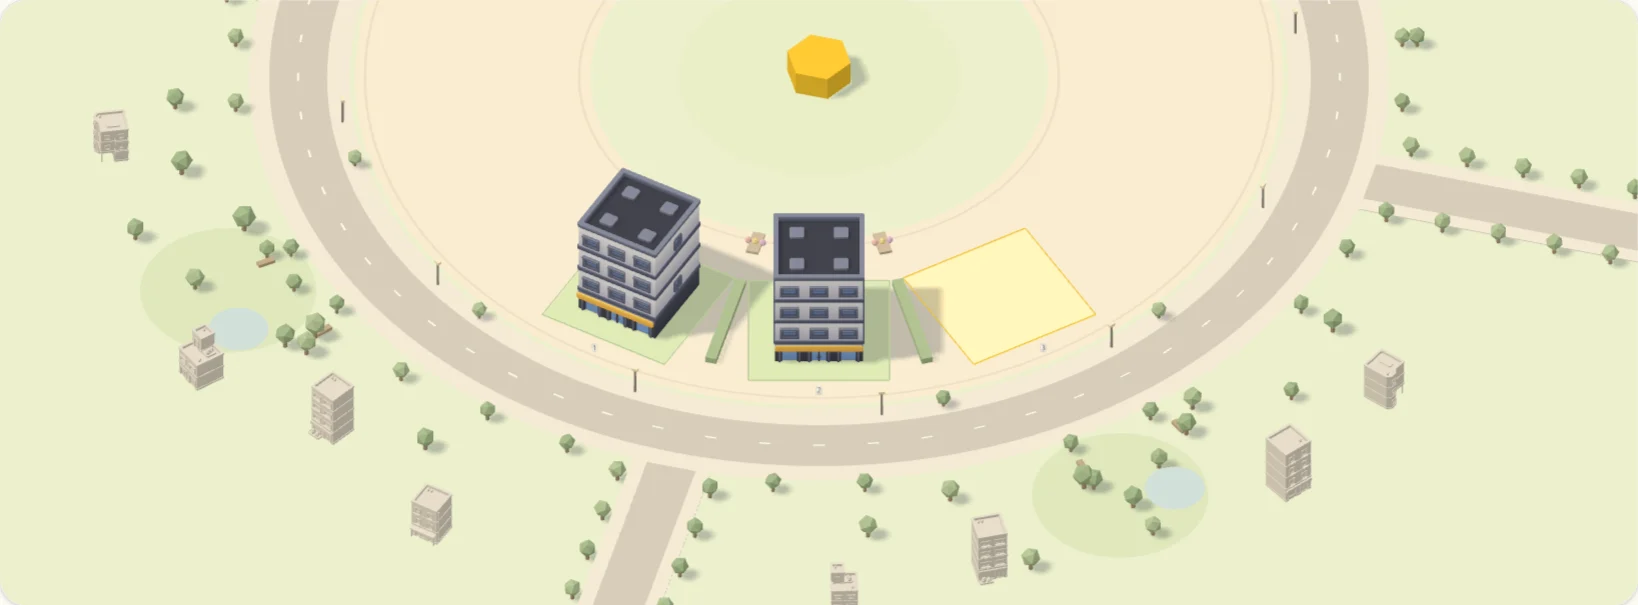
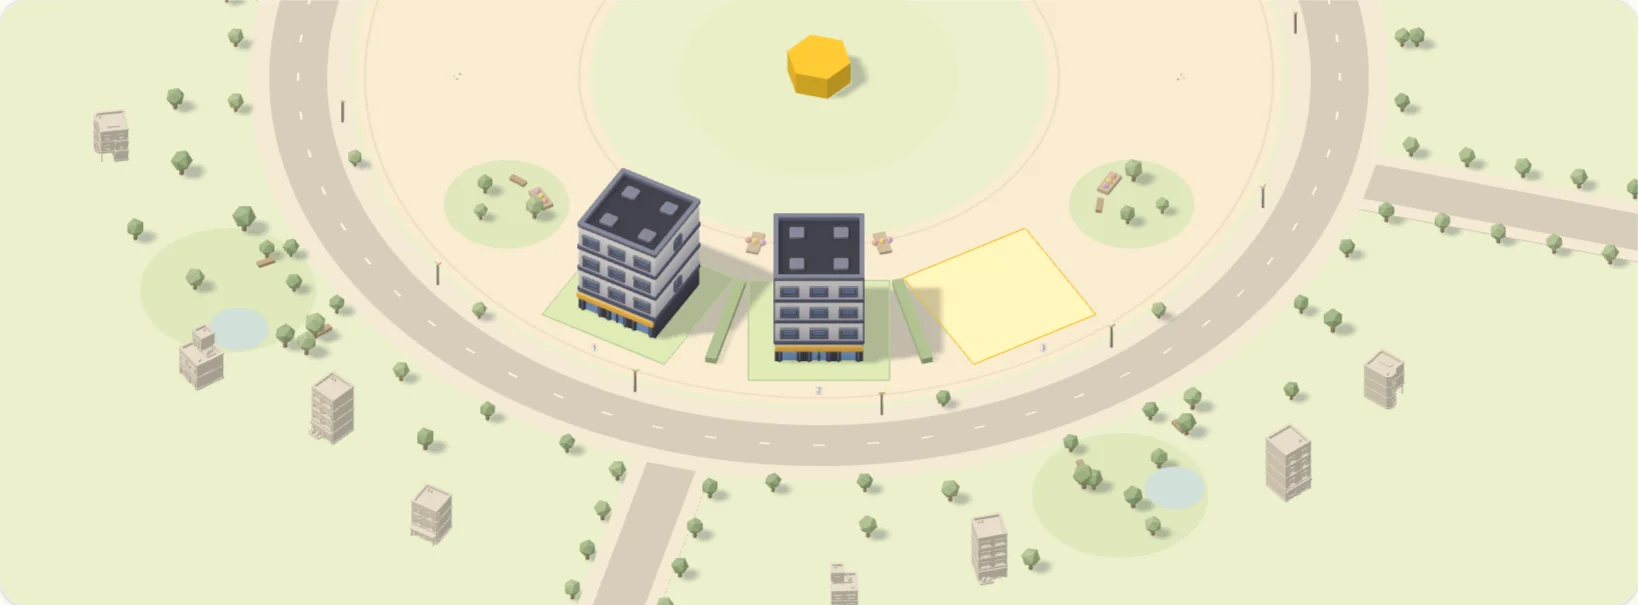
design: 원형 도시를 휠로 돌리고, 쓰지 않은 칸은 부지 대신 잔디·나무로 채움 (S15P31A108-256)
- 사용자 요청: 도시 위 마우스 휠·트랙패드 스크롤은 확대·축소 대신 원을 돌림(아래로 굴리면 다음 칸이 가운데로).
  멈추면 끌기처럼 가장 가까운 칸에 맞추고, 도시 위에서만 페이지 스크롤을 막음. 확대·축소는 없앰
- 부지 모양은 프로젝트 칸과 '+ 새 프로젝트' 빈 부지 하나에만 두고, 쓰지 않은 칸은 둥근 잔디·나무 셋·벤치·꽃밭으로 채움
- 화면 안내를 '끌거나 휠을 굴려 원 돌리기 · 부지를 눌러 선택'으로 고침
- 로그인 화면 그림(city-preview.webp)을 바뀐 모습으로 다시 찍음
- D26·README 문구를 맞춤

Changed region(s): [[0.6538, 0.2678, 0.7473, 0.4165], [0.2491, 0.2678, 0.3425, 0.4165]]

diff --git a/frontend/src/three/city/CityRenderer3D.ts b/frontend/src/three/city/CityRenderer3D.ts
@@ -13,7 +13,6 @@ export interface RingProject {
 export interface RingView {
   /** 몇 칸 돌렸는지(소수 가능) */
   rot: number
-  zoom: number
   hover: number | null
   /** 프로젝트 만들기 창 뒤에 깔 때: 더 가깝게 본다(보드 SCR-04-v2-create-project) */
   backdrop?: boolean
@@ -49,6 +48,8 @@ interface Slot {
   group: THREE.Group
   lawn: THREE.Group
   building: THREE.Group
+  /** 쓰지 않은 칸의 꾸밈(잔디·나무·벤치·꽃밭). 부지 모양은 프로젝트 칸과 빈 부지 하나에만 둔다. */
+  filler: THREE.Group
   number: THREE.Sprite
   key: string
   height: number
@@ -155,7 +156,7 @@ export class CityRenderer3D {
   /** 화면 1px이 몇 단위인지의 역수(단위당 px). 끌기 거리를 칸 수로 바꿀 때 쓴다. */
   pixelsPerUnit(view: RingView) {
     const frame = view.backdrop ? FRAME.backdrop : FRAME.city
-    return (this.width * view.zoom) / frame.view
+    return this.width / frame.view
   }
 
   /** 프로젝트 칸과 빈 부지 칸을 맞춘다. 같은 내용이면 아무것도 하지 않는다. */
@@ -191,9 +192,11 @@ export class CityRenderer3D {
     const ppu = this.pixelsPerUnit(view)
     for (const [s, slot] of this.slots.entries()) {
       const { size } = ringSlot(s, view.rot)
-      slot.group.visible = this.used.has(s) && size > 0.001
+      const used = this.used.has(s)
+      slot.group.visible = size > 0.001
       slot.group.scale.setScalar(Math.max(size, 0.001))
-      slot.number.visible = size > 0.85
+      slot.filler.visible = !used
+      slot.number.visible = used && size > 0.85
       // 보드 그림(2배 해상도)에서 64×48px 글자판을 0.42배로 찍은 크기: 화면에서 13×10px
       slot.number.scale.set((64 * 0.21) / ppu, (48 * 0.21) / ppu, 1)
     }
@@ -205,7 +208,7 @@ export class CityRenderer3D {
     else this.highlight.removeFromParent()
 
     const frame = view.backdrop ? FRAME.backdrop : FRAME.city
-    const w = frame.view / view.zoom
+    const w = frame.view
     const halfH = (w * this.height) / this.width / 2
     const d = (halfH - (frame.top * w) / frame.view) / Math.sin(EL)
     const target = d / Math.SQRT2
@@ -331,12 +334,70 @@ export class CityRenderer3D {
     this.at(group, R, s).rotation.y += Math.PI
     const lawn = new THREE.Group()
     const building = new THREE.Group()
+    const filler = this.filler(s)
     const number = this.numberSprite(s + 1)
     number.position.set(0, 6, -70)
-    group.add(lawn, building, number)
-    slot = { group, lawn, building, number, key: '', height: 0 }
+    group.add(lawn, building, filler, number)
+    slot = { group, lawn, building, filler, number, key: '', height: 0 }
     this.slots[s] = slot
     return slot
+  }
+
+  // 쓰지 않은 칸: 부지 모양 없이 둥근 잔디에 나무 셋, 벤치, 꽃밭(v469 꾸밈의 결). 칸마다 조금씩 다르게 놓는다.
+  private filler(s: number) {
+    const group = new THREE.Group()
+    const patch = this.flat(this.sharedGeometry('filler'), '#d5e1bd', 1.9)
+    group.add(patch)
+    const turn = s % 2 ? 1 : -1
+    const parts = this.decorParts()
+    for (const [x, z, size, color] of [
+      [-24 * turn, 12, 0.95, '#adc196'],
+      [20 * turn, -8, 0.8, '#9fb68b'],
+      [-4 * turn, -26, 0.7, '#adc196'],
+    ] as const) {
+      const tree = new THREE.Group()
+      const stem = new THREE.Mesh(parts.trunk, this.material('#a39078'))
+      stem.position.y = 4.5
+      const top = new THREE.Mesh(parts.crown, this.material(color))
+      top.position.y = 14
+      top.rotation.y = s + x
+      stem.castShadow = top.castShadow = true
+      tree.add(stem, top)
+      tree.position.set(x, 1.9, z)
+      tree.scale.setScalar(size)
+      group.add(tree)
+    }
+    const bench = new THREE.Mesh(parts.seat, this.material('#bca889'))
+    bench.position.set(16 * turn, 4.5, 20)
+    bench.rotation.y = 0.4 * turn
+    const bed = new THREE.Mesh(parts.bed, this.material('#c9b9a0'))
+    bed.position.set(-10 * turn, 3.5, 26)
+    for (const [dx, color] of [
+      [-6, '#e3b7b0'],
+      [0, '#e8d58f'],
+      [6, '#d9b8cf'],
+    ] as const) {
+      const flower = new THREE.Mesh(parts.flower, this.material(color))
+      flower.position.set(dx, 3, 0)
+      bed.add(flower)
+    }
+    group.add(bench, bed)
+    return group
+  }
+
+  private parts?: Record<
+    'trunk' | 'crown' | 'seat' | 'bed' | 'flower',
+    THREE.BufferGeometry
+  >
+  private decorParts() {
+    this.parts ??= {
+      trunk: this.own(new THREE.CylinderGeometry(1.5, 2, 9, 6)),
+      crown: this.own(new THREE.IcosahedronGeometry(8.5, 0)),
+      seat: this.own(new THREE.BoxGeometry(14, 3, 5)),
+      bed: this.own(new THREE.BoxGeometry(22, 4, 10)),
+      flower: this.own(new THREE.IcosahedronGeometry(3, 0)),
+    }
+    return this.parts
   }
 
   private lawn(kind: 'project' | 'next') {
@@ -353,20 +414,22 @@ export class CityRenderer3D {
   }
 
   private readonly shared = new Map<string, THREE.BufferGeometry>()
-  private sharedGeometry(key: 'lawn' | 'lawn-edge') {
+  private sharedGeometry(key: 'lawn' | 'lawn-edge' | 'filler') {
     let geometry = this.shared.get(key)
     if (!geometry) {
       geometry =
         key === 'lawn'
           ? new THREE.PlaneGeometry(110, 110)
-          : new THREE.BufferGeometry().setFromPoints(
-              [
-                [-56, -56],
-                [56, -56],
-                [56, 56],
-                [-56, 56],
-              ].map(([x, z]) => new THREE.Vector3(x, 3.4, z)),
-            )
+          : key === 'filler'
+            ? new THREE.CircleGeometry(50, 28)
+            : new THREE.BufferGeometry().setFromPoints(
+                [
+                  [-56, -56],
+                  [56, -56],
+                  [56, 56],
+                  [-56, 56],
+                ].map(([x, z]) => new THREE.Vector3(x, 3.4, z)),
+              )
       this.own(geometry)
       this.shared.set(key, geometry)
     }
@@ -434,8 +497,7 @@ export class CityRenderer3D {
   private buildDecor() {
     let seed = 7
     const rnd = () => (seed = (seed * 16807) % 2147483647) / 2147483647
-    const trunk = this.own(new THREE.CylinderGeometry(1.5, 2, 9, 6))
-    const crown = this.own(new THREE.IcosahedronGeometry(8.5, 0))
+    const { trunk, crown, seat, bed, flower } = this.decorParts()
     const tree = (r: number, th: number, s = 1) => {
       const group = new THREE.Group()
       const stem = new THREE.Mesh(trunk, this.material('#a39078'))
@@ -462,7 +524,6 @@ export class CityRenderer3D {
       group.add(stick, head)
       return this.at(group, r, th)
     }
-    const seat = this.own(new THREE.BoxGeometry(14, 3, 5))
     const bench = (r: number, th: number) => {
       const group = new THREE.Group()
       const board = new THREE.Mesh(seat, this.material('#bca889'))
@@ -561,8 +622,6 @@ export class CityRenderer3D {
 
     // 고리 위: 칸 사이 낮은 생울타리와 안쪽 화단(이웃 칸이 둘 다 쓰일 때만), 가로등과 칸 사이 나무
     const hedge = this.own(new THREE.BoxGeometry(9, 7, 92))
-    const bed = this.own(new THREE.BoxGeometry(22, 4, 10))
-    const flower = this.own(new THREE.IcosahedronGeometry(3, 0))
     for (let s = 0; s < N; s++) {
       const h = this.at(
         new THREE.Mesh(hedge, this.material('#a9bd92')),

diff --git a/frontend/src/three/CityScene.tsx b/frontend/src/three/CityScene.tsx
@@ -17,7 +17,7 @@ export interface CitySceneProps {
   onLotSelect: (lot: number) => void
   className?: string
 }
-type View = { rot: number; target: number; zoom: number; hover: number | null }
+type View = { rot: number; target: number; hover: number | null }
 
 function CityRuntime({
   props,
@@ -32,7 +32,6 @@ function CityRuntime({
   const view = useRef<View>({
     rot: initialRotation(props.nextLot),
     target: initialRotation(props.nextLot),
-    zoom: 1,
     hover: null,
   })
   useEffect(() => {
@@ -95,12 +94,20 @@ function CityRuntime({
     const leave = () => {
       view.current.hover = null
     }
+    // 휠·트랙패드 스크롤도 원을 돌린다(아래로 굴리면 다음 칸이 가운데로). 멈추면 끌기처럼 가장 가까운 칸에 맞춘다.
+    // 도시 위에서만 페이지 스크롤을 막는다. 원은 끝이 없어 끝 칸에서 페이지로 넘어가지 않는다.
+    let settle = 0
     const wheel = (event: WheelEvent) => {
       event.preventDefault()
-      view.current.zoom = Math.max(
-        0.8,
-        Math.min(1.8, view.current.zoom * (event.deltaY < 0 ? 1.1 : 1 / 1.1)),
-      )
+      const delta =
+        Math.abs(event.deltaX) > Math.abs(event.deltaY)
+          ? event.deltaX
+          : event.deltaY
+      view.current.target += (event.deltaMode === 1 ? delta * 40 : delta) / 250
+      window.clearTimeout(settle)
+      settle = window.setTimeout(() => {
+        view.current.target = Math.round(view.current.target)
+      }, 160)
     }
     canvas.addEventListener('pointerdown', down)
     canvas.addEventListener('pointermove', move)
@@ -113,6 +120,7 @@ function CityRuntime({
       canvas.removeEventListener('pointerup', up)
       canvas.removeEventListener('pointerleave', leave)
       canvas.removeEventListener('wheel', wheel)
+      window.clearTimeout(settle)
       renderer.dispose()
       engine.current = null
     }

diff --git a/frontend/src/pages/CityPage.tsx b/frontend/src/pages/CityPage.tsx
@@ -155,7 +155,7 @@ function City() {
                 />
               </Suspense>
               <p className="pointer-events-none absolute bottom-5 left-6 text-xs text-muted-foreground">
-                끌어서 원 돌리기 · 부지를 눌러 선택 · 휠로 확대/축소
+                끌거나 휠을 굴려 원 돌리기 · 부지를 눌러 선택
               </p>
             </section>
             <section className="mt-7">

diff --git a/frontend/docs/decisions.md b/frontend/docs/decisions.md
@@ -202,7 +202,7 @@
 ## D26. 나의 도시는 칸이 고정된 원형 도시로 그린다
 
 - **날짜**: 2026-11-03
-- **결정**: 도시 화면을 캔버스 SCR-04-v2-city(v474, 그림 코드 `ring2.html`)의 원형 도시로 바꾼다. 칸 12개가 150 간격으로 고리에 놓이고(`src/three/city/ring.ts`), 고리가 통째로 돌아 앞 반원만 보인다. 반원 끝을 넘는 칸은 줄어들며 사라진다. 빈 부지는 원을 따라 가장 앞의 빈 칸 하나에만 둔다. 주변(순환 도로·보도·가로수·공원·가로등·벤치·흐린 먼 건물)은 고리와 같이 돈다. 끌어서 돌리고, 놓으면 가장 가까운 칸이 가운데로 온다. 이름표는 HTML 버튼이라 키보드로도 들어가거나 만들 수 있다. 프로젝트 만들기 창을 열면 도시가 화면 전체에 깔리고, 창의 흐린 막 뒤로 보인다(SCR-04-v2-create-project).
+- **결정**: 도시 화면을 캔버스 SCR-04-v2-city(v474, 그림 코드 `ring2.html`)의 원형 도시로 바꾼다. 칸 12개가 150 간격으로 고리에 놓이고(`src/three/city/ring.ts`), 고리가 통째로 돌아 앞 반원만 보인다. 반원 끝을 넘는 칸은 줄어들며 사라진다. 빈 부지는 원을 따라 가장 앞의 빈 칸 하나에만 둔다. 주변(순환 도로·보도·가로수·공원·가로등·벤치·흐린 먼 건물)은 고리와 같이 돈다. 끌거나 휠(트랙패드 스크롤)을 굴려 돌리고, 놓거나 멈추면 가장 가까운 칸이 가운데로 온다. 확대·축소는 없앴다(사용자 요청). 프로젝트 칸과 빈 부지 하나만 부지 모양이고, 쓰지 않은 칸은 잔디·나무·벤치·꽃밭으로 채운다. 이름표는 HTML 버튼이라 키보드로도 들어가거나 만들 수 있다. 프로젝트 만들기 창을 열면 도시가 화면 전체에 깔리고, 창의 흐린 막 뒤로 보인다(SCR-04-v2-create-project).
 - **이유**: 사용자가 캔버스에서 확정한 디자인이다. 원형 도시에는 격자 8칸 도시의 공사 미리보기·통근 로봇·자동차가 없어 함께 지웠다. 도시 화면은 D16의 기존 geometry 보존 대상에서 빠진다.
 - **제한**: 칸 수는 12로 고정이다. 캔버스의 주변을 꾸민 판도 칸 수를 늘리지 않는다. 저장된 자리가 없는 프로젝트도 앞 칸부터 12칸까지 자동으로 놓고(`src/features/projects/placements.ts`), 넘는 프로젝트는 부지 없이 목록에만 남는다. 먼 건물은 캔버스의 building-c·k가 레포에 없어 building-a·g로 대신한다.
 - **다시 볼 조건**: 프로젝트가 12개를 넘는 사용자가 생기거나, 부지·건물 저장이 서버 계약이 될 때

diff --git a/frontend/README.md b/frontend/README.md
@@ -353,7 +353,7 @@ npm run check
 | `src/stores/workspaceStore.ts`               | 선택한 패널·시점과 브라우저별 부지·외관 설정                                 |
 | `src/api/`, `src/mocks/`                     | 실제 REST 서비스 경계와 브라우저 예시 어댑터                                 |
 
-도시는 원형으로, 끌어서 돌리면 앞 반원에 다른 칸이 보입니다([D26](docs/decisions.md)). 건물이나 빈 부지, 그 위 이름표를 누르면 프로젝트 또는 생성 창이 열립니다. 사무실에서는 드래그로 둘러보고 WASD·방향키로 이동하며, Shift로 달리고 Enter로 가까운 대상을 선택합니다. 아래 단축 바의 메뉴는 숫자 키 1~6으로 엽니다. ? 키나 오른쪽 위 도움말 버튼은 화면 안내와 1분 둘러보기를 엽니다. 휠로 확대·축소하고 1·3인칭을 전환할 수 있습니다. 출입구를 통해 실외 산책으로 이동합니다.
+도시는 원형으로, 끌거나 휠을 굴려 돌리면 앞 반원에 다른 칸이 보입니다([D26](docs/decisions.md)). 건물이나 빈 부지, 그 위 이름표를 누르면 프로젝트 또는 생성 창이 열립니다. 사무실에서는 드래그로 둘러보고 WASD·방향키로 이동하며, Shift로 달리고 Enter로 가까운 대상을 선택합니다. 아래 단축 바의 메뉴는 숫자 키 1~6으로 엽니다. ? 키나 오른쪽 위 도움말 버튼은 화면 안내와 1분 둘러보기를 엽니다. 휠로 확대·축소하고 1·3인칭을 전환할 수 있습니다. 출입구를 통해 실외 산책으로 이동합니다.
 
 문서 등록이나 기준 설계 승인 전에도 사무실에서 걸을 수 있습니다. 시점 버튼을 누르거나 업무 창을 닫으면 이동 입력이 사무실로 돌아옵니다. 업무 창을 연 동안에는 캐릭터 이동 입력을 멈추므로 문서와 검색어를 안전하게 입력할 수 있습니다.
 
